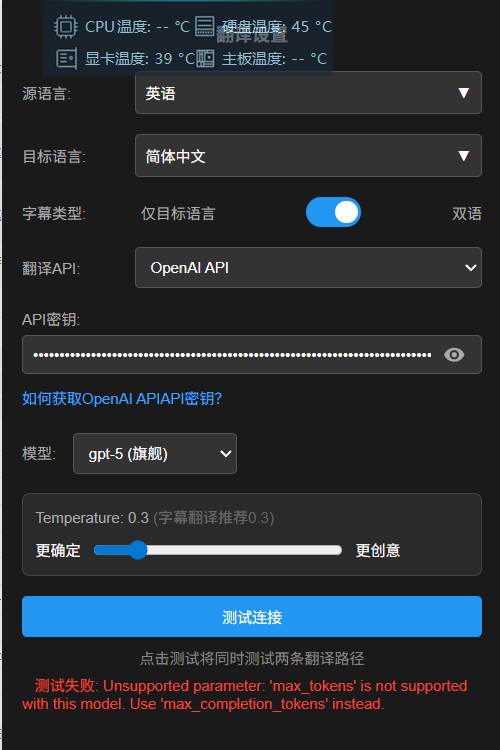
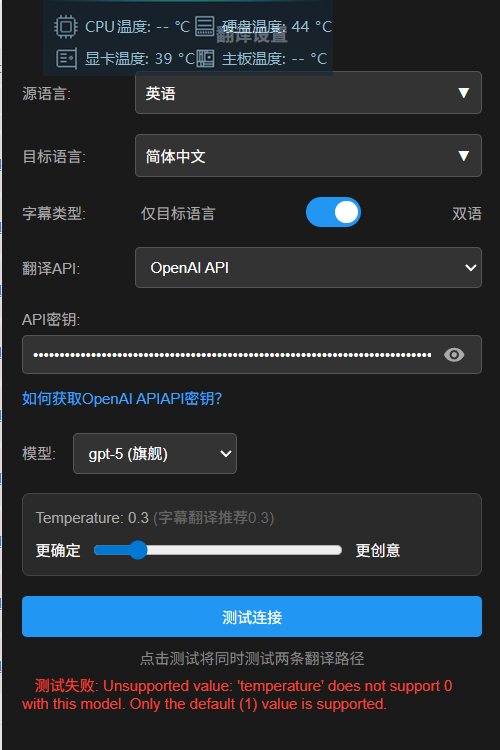
fix: GPT-5系列模型temperature参数限制
问题：
1. GPT-5系列模型只支持temperature=1（默认值）
2. 自定义temperature值会导致API错误

修复：
1. OpenAITranslator: GPT-5系列不发送temperature参数
2. testOpenAIService: GPT-5系列不发送temperature参数
3. 默认temperature从0.3改为1
4. Popup中禁用temperature滑块，显示警告提示

原因：
GPT-5是reasoning model，OpenAI限制了temperature控制

🤖 Generated with [Claude Code](https://claude.com/claude-code)

Changed region(s): [[0.27, 0.8893, 0.93, 0.9507], [0.6, 0.0307, 0.63, 0.0613]]

diff --git a/src/background/service-worker.ts b/src/background/service-worker.ts
@@ -4091,23 +4091,31 @@ async function testMicrosoftTranslatePathB(testText: string, sourceLang: string,
 async function testOpenAIService(apiKey: string, model: string): Promise<{success: boolean, message: string}> {
   const url = 'https://api.openai.com/v1/chat/completions';
 
+  // GPT-5系列模型不支持自定义temperature，只能使用默认值1
+  const isGPT5 = model.startsWith('gpt-5');
+  const requestBody: any = {
+    model: model,
+    messages: [
+      {
+        role: 'user',
+        content: 'Say "test successful" in Chinese.'
+      }
+    ],
+    max_completion_tokens: 10  // GPT-5系列使用max_completion_tokens
+  };
+
+  // 只有非GPT-5模型才添加temperature参数
+  if (!isGPT5) {
+    requestBody.temperature = 0;
+  }
+
   const options = {
     method: 'POST',
     headers: {
       'Authorization': `Bearer ${apiKey}`,
       'Content-Type': 'application/json'
     },
-    body: JSON.stringify({
-      model: model,
-      messages: [
-        {
-          role: 'user',
-          content: 'Say "test successful" in Chinese.'
-        }
-      ],
-      max_completion_tokens: 10,  // GPT-5系列使用max_completion_tokens
-      temperature: 0
-    })
+    body: JSON.stringify(requestBody)
   };
 
   try {

diff --git a/src/background/components/openai-translator.ts b/src/background/components/openai-translator.ts
@@ -165,19 +165,27 @@ Do not add explanations.`
     const url = 'https://api.openai.com/v1/chat/completions';
 
     try {
+      // GPT-5系列模型不支持自定义temperature，只能使用默认值1
+      const isGPT5 = this.model.startsWith('gpt-5');
+      const requestBody: any = {
+        model: this.model,
+        messages: messages,
+        max_completion_tokens: 128000,  // GPT-5系列使用max_completion_tokens
+        stream: false                   // 非流式
+      };
+
+      // 只有非GPT-5模型才添加temperature参数
+      if (!isGPT5) {
+        requestBody.temperature = this.temperature;
+      }
+
       const response = await fetch(url, {
         method: 'POST',
         headers: {
           'Content-Type': 'application/json',
           'Authorization': `Bearer ${this.apiKey}`
         },
-        body: JSON.stringify({
-          model: this.model,
-          messages: messages,
-          temperature: this.temperature,
-          max_completion_tokens: 128000,  // GPT-5系列使用max_completion_tokens
-          stream: false                   // 非流式
-        }),
+        body: JSON.stringify(requestBody),
         signal                          // AbortSignal支持
       });
 

diff --git a/src/popup/popup.html b/src/popup/popup.html
@@ -176,10 +176,10 @@
 
         <!-- Temperature设置 - 从高级设置移到这里 -->
         <div class="simple-setting-item">
-            <label for="openai-temperature">Temperature: <span id="openai-temperature-value">0.3</span> <span style="color: #666; font-size: 0.9em;">(字幕翻译推荐0.3)</span></label>
+            <label for="openai-temperature">Temperature: <span id="openai-temperature-value">1</span> <span style="color: #ff9800; font-size: 0.9em;">(GPT-5系列仅支持默认值1)</span></label>
             <div class="slider-container" style="display: flex; align-items: center; gap: 8px;">
                 <span class="slider-label">更确定</span>
-                <input type="range" id="openai-temperature" name="openai-temperature" min="0" max="2" step="0.1" value="0.3" style="flex: 0 0 200px;">
+                <input type="range" id="openai-temperature" name="openai-temperature" min="0" max="2" step="0.1" value="1" style="flex: 0 0 200px;" disabled>
                 <span class="slider-label">更创意</span>
             </div>
         </div>

diff --git a/src/shared/types/user-preferences-types.ts b/src/shared/types/user-preferences-types.ts
@@ -94,7 +94,7 @@ export const TRANSLATION_SERVICE_TEMPLATES: Record<TranslationServiceType, Omit<
     name: 'OpenAI GPT',
     model: 'gpt-5-mini',
     availableModels: ['gpt-5', 'gpt-5-mini', 'gpt-5-nano'],
-    temperature: 0.3,
+    temperature: 1,  // GPT-5系列只支持默认值1
     maxTokens: 128000,
     rpm: 60,
     tpm: 40000
